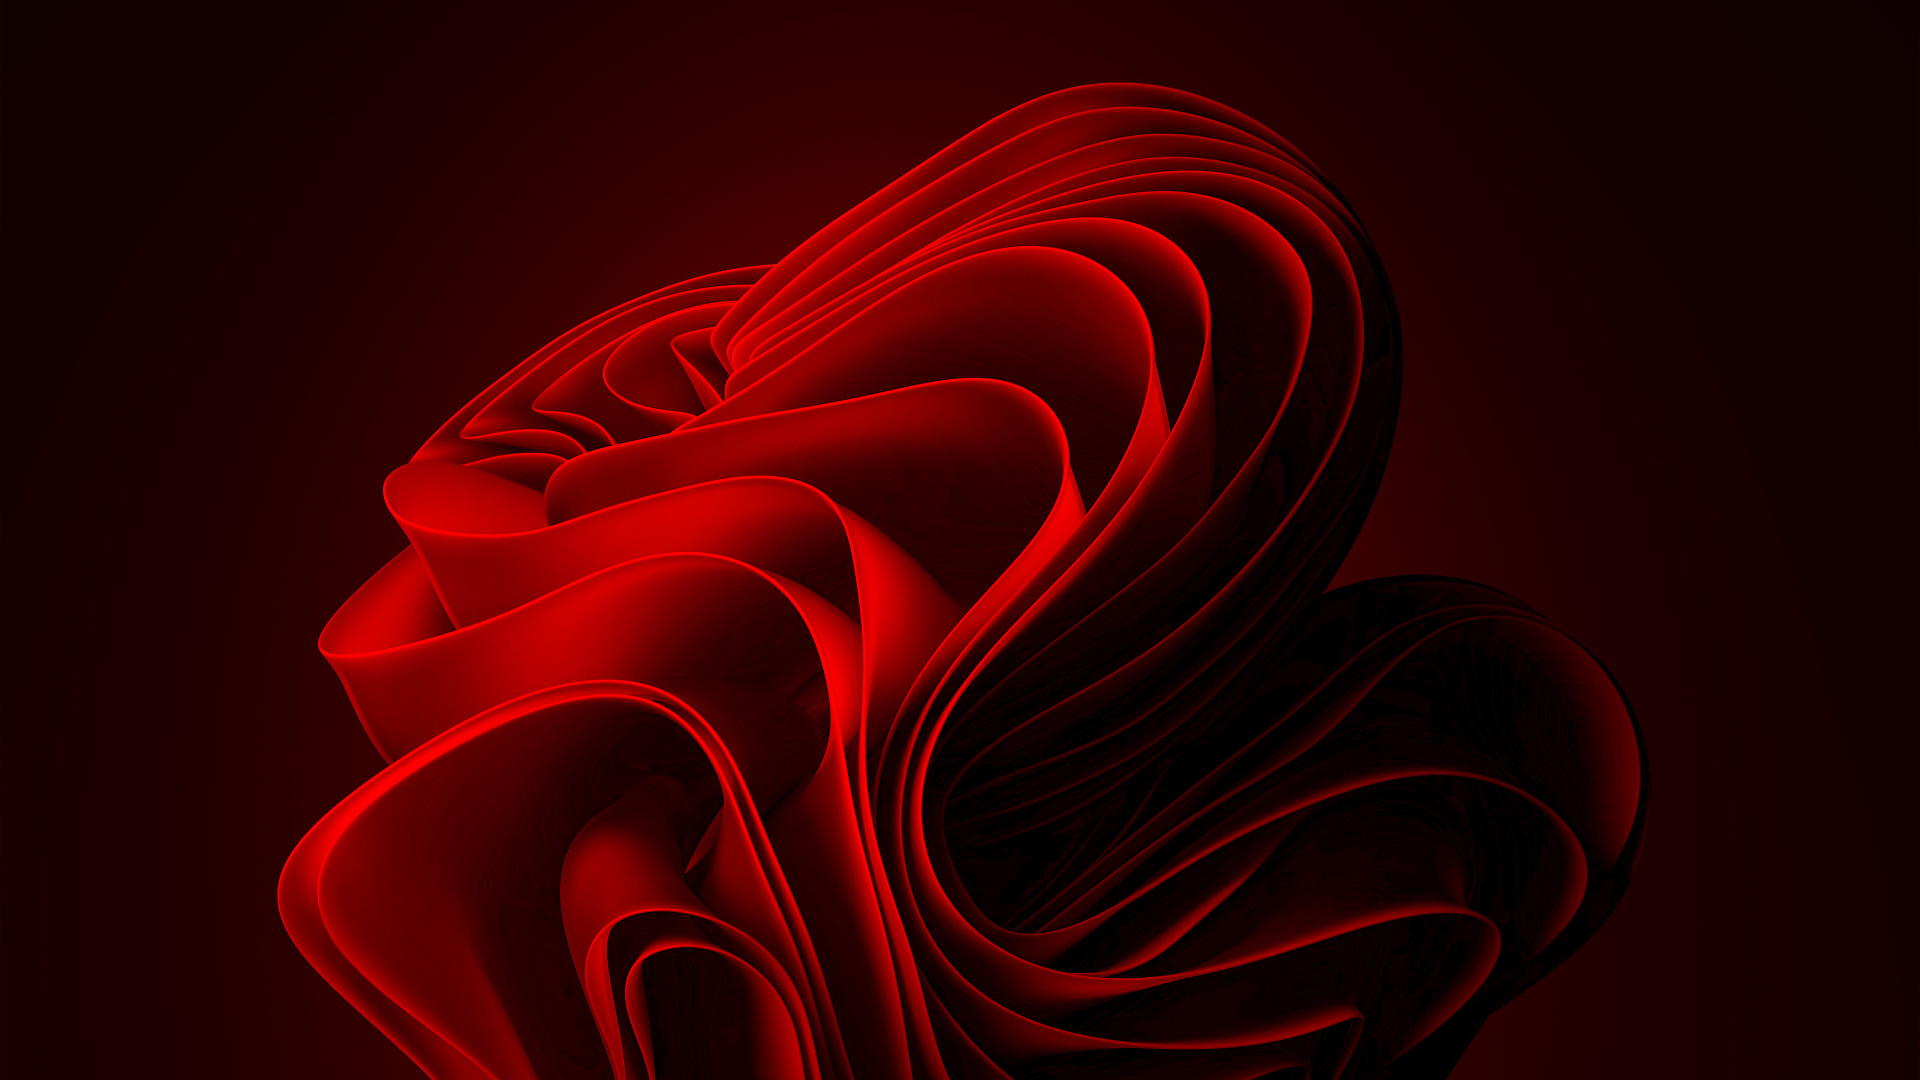
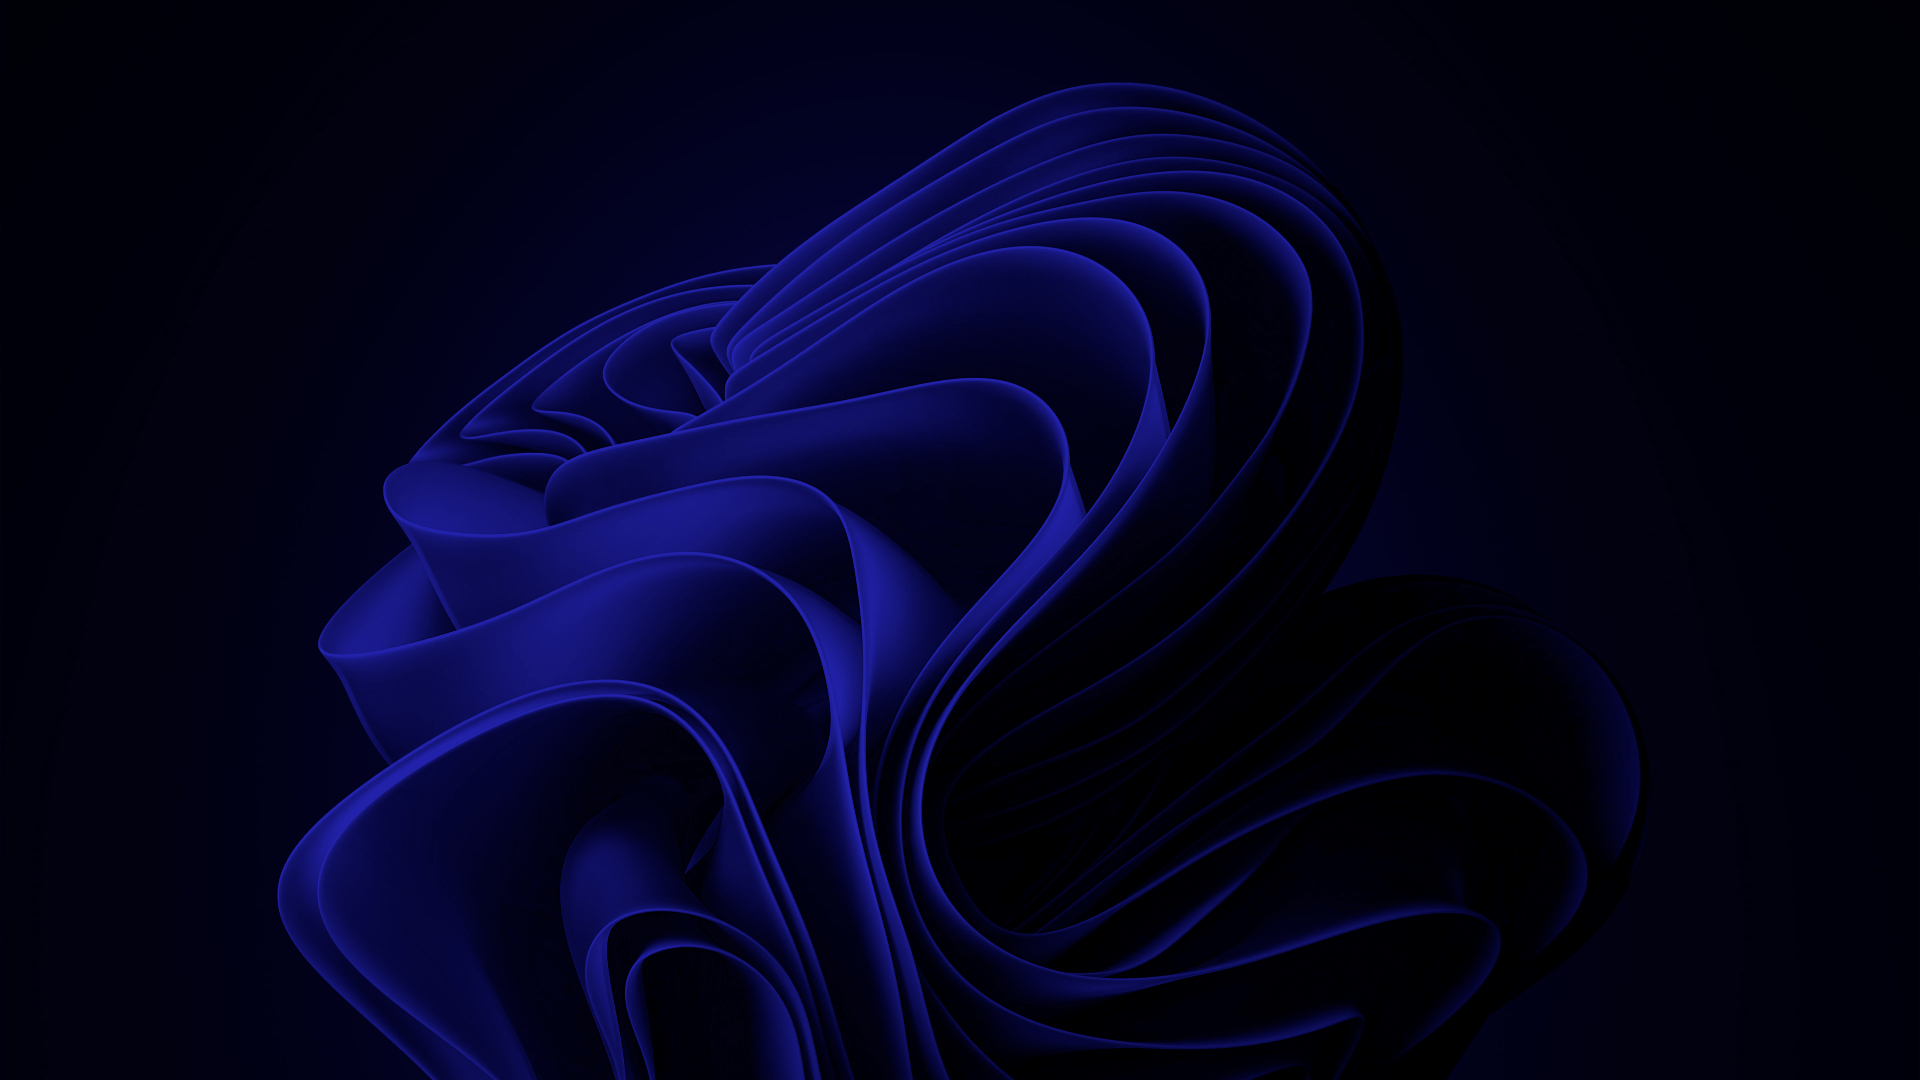
Corrigido sintaxe + troca de cores para azul

diff --git a/index.html b/index.html
@@ -18,14 +18,14 @@
             Não está incluso nenhuma forma de ativação ilegal, nenhum Aplicativo/Programa necessário para funcionamento do sistema a nível crítico foi removido.<br>
         </p>
         <div class="mt-5 d-flex gap-5 justify-content-center">
-            <button class="btn btn-danger download" data-bs-toggle="modal" data-bs-target="#downloadModal">
-                <i class="fa-solid fa-download me-2" style="color: #cb0000;"></i> Download
+            <button class="btn btn-primary download" data-bs-toggle="modal" data-bs-target="#downloadModal">
+                <i class="fa-solid fa-download me-2" style="color: #0909e9;"></i> Download
             </button>
-            <button class="btn btn-danger changelog" data-bs-toggle="modal" data-bs-target="#changelogModal">
-                <i class="fa-solid fa-file me-2" style="color: #cb0000;"></i> Changelog
+            <button class="btn btn-primary changelog" data-bs-toggle="modal" data-bs-target="#changelogModal">
+                <i class="fa-solid fa-file me-2" style="color: #0909e9;"></i> Changelog
             </button>
-            <button class="btn btn-danger git">
-                <i class="fa-brands fa-github me-2" style="color: #cb0000;"></i> GitHub
+            <button class="btn btn-primary git">
+                <i class="fa-brands fa-github me-2" style="color: #0909e9;"></i> GitHub
             </button>
         </div>
     </div>
@@ -45,16 +45,16 @@
                                     <img src="components/images/Logo.png" class="card-img-top logodown" alt="...">
                                     <h5 class="card-title">Windows 11 24H2</h5>
                                 </div>
-                                <a href="https://drive.google.com/file/d/1yJdWDMMAtYhYTqv_6kYQ7IkL0lQNlcol/view?usp=drive_link" target="_blank" class="btn btn-danger download baixar">Baixar</a>
+                                <a href="https://drive.google.com/file/d/1yJdWDMMAtYhYTqv_6kYQ7IkL0lQNlcol/view?usp=drive_link" target="_blank" class="btn btn-primary download baixar">Baixar</a>
                             </div>
                         </div>
                         <div class="card" style="width: 24rem;">
                             <div class="card-body">
                                 <div id="titulo">
                                     <img src="components/images/Logo.png" class="card-img-top logodown" alt="...">
-                                    <h5 class="card-title">Windows 11 24H2 Sem TPM 2.0</h5>
+                                    <h5 class="card-title">Windows 11 24H2 sem TPM 2.0</h5>
                                 </div>
-                                <a href="https://drive.google.com/file/d/1FBRJ3jrsxmS-LJcNnNrlZVg36TJTeSrt/view?usp=drive_link" target="_blank" class="btn btn-danger download baixar">Baixar</a>
+                                <a href="https://drive.google.com/file/d/1FBRJ3jrsxmS-LJcNnNrlZVg36TJTeSrt/view?usp=drive_link" target="_blank" class="btn btn-primary download baixar">Baixar</a>
                             </div>
                         </div>
                     </div>
